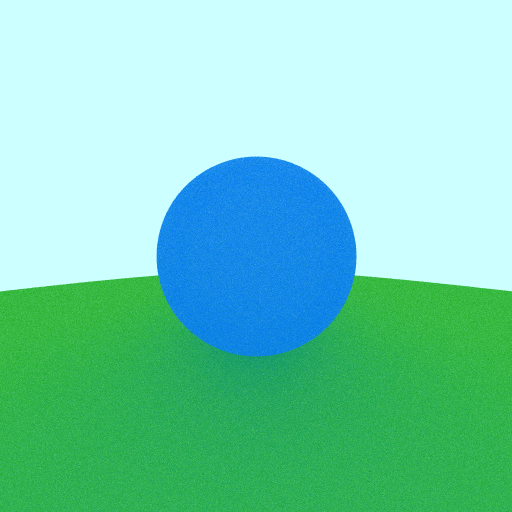
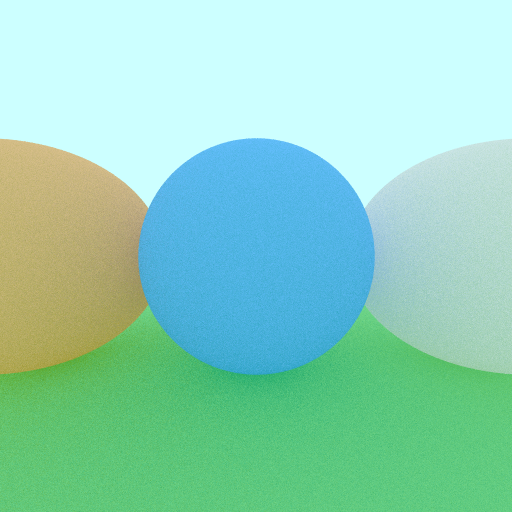
Added reflective material and removed shadow acne

diff --git a/src/main.rs b/src/main.rs
@@ -16,10 +16,8 @@ const WIDTH: f64 = 20.0;
 const PIXEL_WIDTH: f64 = WIDTH / WIDTH_PIXELS as f64;
 const PIXEL_HEIGHT: f64 = HEIGHT / HEIGHT_PIXELS as f64;
 const COLORS: usize = 255;
-const CAMERA_Z: f64 = 5.0;
-const MAX_DEPTH: i32 = 4;
-const REFLECTED_RADIANCE_FRACTION: f64 = 0.5;
-const _EPS: f64 = 0.001;
+const CAMERA_Z: f64 = 8.0;
+const MAX_DEPTH: i32 = 10;
 
 type Color = DVec3;
 
@@ -27,7 +25,7 @@ mod material;
 mod ray;
 mod renderables;
 
-use material::Lambertian;
+use material::{Lambertian, Metal};
 use ray::Ray;
 use renderables::{Renderable, Sphere};
 
@@ -50,10 +48,9 @@ fn intersection(
     for rend in scene {
         if let Some(x) = rend.intersect(ray) {
             // get random reflected ray
-            let reflected_ray = rend.get_reflected_ray(&x, rng);
-            return rend.ambient_color() * (1.0 - REFLECTED_RADIANCE_FRACTION)
-                + REFLECTED_RADIANCE_FRACTION
-                    * intersection(&reflected_ray, scene, rng, depth + 1);
+            let reflected_ray = rend.get_reflected_ray(&x, &ray.direction, rng);
+            let incident_color = intersection(&reflected_ray, scene, rng, depth + 1);
+            return rend.reflectance_color(&incident_color);
         }
     }
 
@@ -106,6 +103,23 @@ fn main() -> Result<(), Error> {
             y: 0.5,
             z: 1.0,
         },
+        reflectance_factor: 0.5,
+    });
+
+    let silver_material = Box::new(Metal {
+        ambient_color: DVec3 {
+            x: 0.8,
+            y: 0.8,
+            z: 0.8,
+        },
+    });
+
+    let orange_material = Box::new(Metal {
+        ambient_color: DVec3 {
+            x: 0.9,
+            y: 0.5,
+            z: 0.1,
+        },
     });
 
     let green_material = Box::new(Lambertian {
@@ -114,11 +128,12 @@ fn main() -> Result<(), Error> {
             y: 0.7,
             z: 0.1,
         },
+        reflectance_factor: 0.5,
     });
 
     // Setup scene
     let scene: Vec<Box<dyn Renderable>> = vec![
-        // Sphere
+        // Spheres
         Box::new(Sphere::new(
             DVec3 {
                 x: 0.0,
@@ -127,6 +142,24 @@ fn main() -> Result<(), Error> {
             },
             8.0,
             blue_material,
+        )),
+        Box::new(Sphere::new(
+            DVec3 {
+                x: 16.0,
+                y: 0.0,
+                z: -8.0,
+            },
+            8.0,
+            silver_material,
+        )),
+        Box::new(Sphere::new(
+            DVec3 {
+                x: -16.0,
+                y: 0.0,
+                z: -8.0,
+            },
+            8.0,
+            orange_material,
         )),
         // Earth
         Box::new(Sphere::new(

diff --git a/src/material.rs b/src/material.rs
@@ -7,16 +7,29 @@ type Color = DVec3;
 use crate::Ray;
 
 pub trait Material {
-    fn get_reflected_ray(&self, pt: &DVec3, normal: &DVec3, rng: &mut ThreadRng) -> Ray;
-    fn ambient_color(&self) -> Color;
+    fn get_reflected_ray(
+        &self,
+        pt: &DVec3,
+        incident_dir: &DVec3,
+        normal: &DVec3,
+        rng: &mut ThreadRng,
+    ) -> Ray;
+    fn reflectance(&self, incident_color: &Color) -> Color;
 }
 
 pub struct Lambertian {
     pub ambient_color: Color,
+    pub reflectance_factor: f64,
 }
 
 impl Material for Lambertian {
-    fn get_reflected_ray(&self, pt: &DVec3, normal: &DVec3, rng: &mut ThreadRng) -> Ray {
+    fn get_reflected_ray(
+        &self,
+        pt: &DVec3,
+        _incident_dir: &DVec3,
+        normal: &DVec3,
+        rng: &mut ThreadRng,
+    ) -> Ray {
         let mut dir = DVec3 {
             x: rng.gen_range(-1.0..1.0),
             y: rng.gen_range(-1.0..1.0),
@@ -39,7 +52,37 @@ impl Material for Lambertian {
             direction: dir,
         }
     }
-    fn ambient_color(&self) -> Color {
-        self.ambient_color
+
+    fn reflectance(&self, incident_color: &Color) -> Color {
+        self.ambient_color * (1.0 - self.reflectance_factor)
+            + self.reflectance_factor * *incident_color
+    }
+}
+
+pub struct Metal {
+    pub ambient_color: Color,
+}
+
+impl Material for Metal {
+    fn get_reflected_ray(
+        &self,
+        pt: &DVec3,
+        incident_dir: &DVec3,
+        normal: &DVec3,
+        _rng: &mut ThreadRng,
+    ) -> Ray {
+        let d_i = incident_dir.normalize();
+        let n = normal.normalize();
+
+        // Perfect mirror reflection
+        Ray {
+            origin: *pt,
+            direction: d_i - 2.0 * n * (n.dot(d_i)),
+        }
+    }
+
+    fn reflectance(&self, incident_color: &Color) -> Color {
+        //self.ambient_color  * (DVec3::ONE * 0.5 + *incident_color * 0.5)
+        self.ambient_color * *incident_color
     }
 }

diff --git a/src/renderables.rs b/src/renderables.rs
@@ -3,6 +3,9 @@ use crate::Ray;
 use glam::f64::DVec3;
 use rand::rngs::ThreadRng;
 
+const EPS: f64 = 0.001;
+
+type Color = DVec3;
 pub struct Sphere {
     center: DVec3,
     radius: f64,
@@ -21,9 +24,9 @@ impl Sphere {
 
 pub trait Renderable {
     fn intersect(&self, ray: &Ray) -> Option<DVec3>;
-    fn ambient_color(&self) -> DVec3;
+    fn reflectance_color(&self, incident_color: &Color) -> DVec3;
     fn normal(&self, point: &DVec3) -> DVec3;
-    fn get_reflected_ray(&self, pt: &DVec3, rng: &mut ThreadRng) -> Ray;
+    fn get_reflected_ray(&self, pt: &DVec3, incident_dir: &DVec3, rng: &mut ThreadRng) -> Ray;
 }
 
 impl Renderable for Sphere {
@@ -42,25 +45,26 @@ impl Renderable for Sphere {
         let t1 = (-b - det_root) / 2.0;
         let t2 = (-b + det_root) / 2.0;
 
-        if t2 < 0.0 {
+        if t2 < EPS {
             return None;
         }
 
-        if t1 < 0.0 {
+        if t1 < EPS {
             return Some(ray.eval(t2));
         }
 
         Some(ray.eval(t1))
     }
 
-    fn ambient_color(&self) -> DVec3 {
-        self.material.ambient_color()
+    fn reflectance_color(&self, incident_color: &Color) -> DVec3 {
+        self.material.reflectance(incident_color)
     }
     fn normal(&self, point: &DVec3) -> DVec3 {
         (*point - self.center).normalize()
     }
 
-    fn get_reflected_ray(&self, pt: &DVec3, rng: &mut ThreadRng) -> Ray {
-        self.material.get_reflected_ray(pt, &self.normal(pt), rng)
+    fn get_reflected_ray(&self, pt: &DVec3, incident_dir: &DVec3, rng: &mut ThreadRng) -> Ray {
+        self.material
+            .get_reflected_ray(pt, incident_dir, &self.normal(pt), rng)
     }
 }

diff --git a/README.md b/README.md
@@ -1,13 +1,17 @@
 # Ray Tracer
 
-A simple ray tracer writtin in Rust.
+A simple ray tracer written in Rust.
 
 ## Results
 
-### 100% diffuse reflectance. 32x anti-aliasing.
+### 100% diffuse reflectance. 32x anti-aliasing. Max recursive depth 10.
 
 ![image](results/diffuse.png)
 
-### Lambertian reflection
+### Lambertian materials. 32x anti-aliasing. Max recursive depth 10.
 
 ![image](results/lambertian_reflection.png)
+
+### Lambertian and Reflective materials. 32x anti-aliasing. Max recursive depth 10.
+
+![image](results/reflective_material.png)
